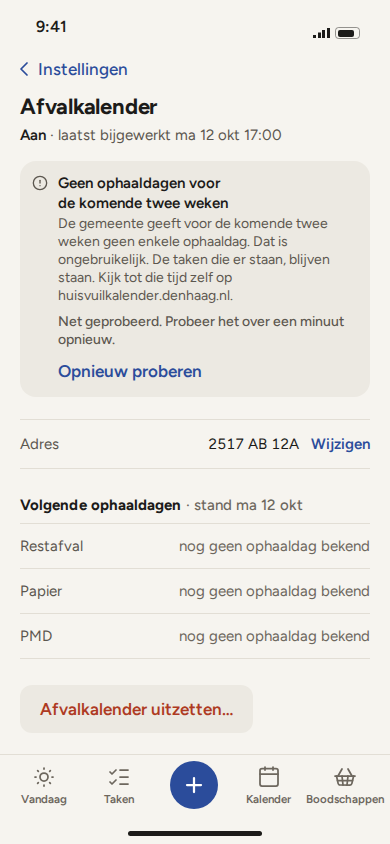
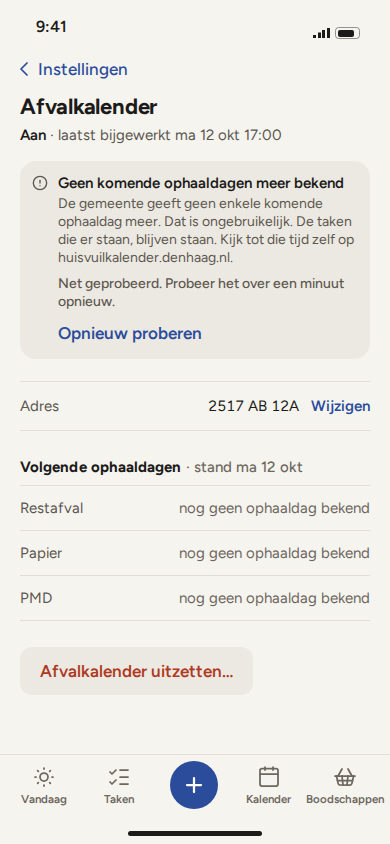
W-03: visuele ronde 3 (teksten in prototype bijgewerkt)
Claude-Session: https://claude.ai/code/session_01WXgN2KAqhzPZRNUJQnq1N3

diff --git a/docs/prototype/w03/07-storing-leeg-te-snel.html b/docs/prototype/w03/07-storing-leeg-te-snel.html
@@ -15,8 +15,8 @@
     <div class="notice" role="status">
       <i data-ic="alert" class="sm"></i>
       <div>
-        <div class="nt">Geen ophaaldagen voor de komende twee weken</div>
-        <div class="nb">De gemeente geeft voor de komende twee weken geen enkele ophaaldag. Dat is ongebruikelijk. De taken die er staan, blijven staan. Kijk tot die tijd zelf op huisvuilkalender.denhaag.nl.</div>
+        <div class="nt">Geen komende ophaaldagen meer bekend</div>
+        <div class="nb">De gemeente geeft geen enkele komende ophaaldag meer. Dat is ongebruikelijk. De taken die er staan, blijven staan. Kijk tot die tijd zelf op huisvuilkalender.denhaag.nl.</div>
         <div class="nr">Net geprobeerd. Probeer het over een minuut opnieuw.</div>
       </div>
       <span></span>

diff --git a/docs/prototype/w03/09-nog-geen-ophaaldagen.html b/docs/prototype/w03/09-nog-geen-ophaaldagen.html
@@ -13,7 +13,7 @@
   <main>
     <div class="notice nobtn" role="status">
       <i data-ic="alert" class="sm"></i>
-      <div class="solo">De gemeente heeft nog geen ophaaldagen voor de komende weken online gezet. De kalender van het nieuwe jaar komt meestal rond de jaarwisseling online. Er is niets opgeslagen. Probeer het over een paar dagen opnieuw.</div>
+      <div class="solo">De gemeente geeft voor dit adres nog geen komende ophaaldagen. De kalender van het nieuwe jaar komt meestal rond de jaarwisseling online. Er is niets opgeslagen. Probeer het over een paar dagen opnieuw.</div>
     </div>
 
     <form class="addr-grid" onsubmit="return false">

diff --git a/docs/wijzigingen/W-03/visual-designer-r3.md b/docs/wijzigingen/W-03/visual-designer-r3.md
@@ -1,0 +1,69 @@
+## Visueel ontwerp: W-03 afvalkalender — ronde 3 (tekstwijzigingen uit product-designer-r4)
+
+Ik heb twee prototypebestanden aangepast en daarvan nieuwe screenshots gemaakt. Die screenshots heb ik met Read bekeken. DESIGN_SYSTEM.md heb ik niet aangeraakt, want het is bevroren.
+
+### Controle van de prototypebestanden (alle 11 in docs/prototype/w03/)
+Ik heb gezocht op de oude en de nieuwe formuleringen: "twee weken", "komende weken", "online gezet", "'s-Gravenhage", "Den Haag", "klaargezet", "staat aan" en "Bekijken".
+- **07-storing-leeg-te-snel.html (H2):**
+  - de titel is nu T-77: "Geen komende ophaaldagen meer bekend";
+  - de uitleg is nu T-77b: "De gemeente geeft geen enkele komende ophaaldag meer. Dat is ongebruikelijk. …". Het is T-77b en niet T-77a, omdat de stand in het scherm op 12 oktober staat en oktober niet onder december/januari valt.
+- **09-nog-geen-ophaaldagen.html (F2, aanzetten):** de tekst is nu T-64, letterlijk: "De gemeente geeft voor dit adres nog geen komende ophaaldagen. De kalender van het nieuwe jaar komt meestal rond de jaarwisseling online. Er is niets opgeslagen. Probeer het over een paar dagen opnieuw."
+- **02-klopt-dit.html (T-45a):** hoeft niet te veranderen. Er staat al "Laan van Meerdervoort 12A, Den Haag", en nergens in het prototype komt "'s-Gravenhage" voor.
+- **M-04, T-64b, T-77a en T-90/T-90b:** geen van deze teksten staat in het prototype. Er was dus niets aan te passen.
+- **Rest:** 01, 03, 04, 05, 06, 08, 10 en 11 bevatten geen van de gewijzigde teksten en blijven zoals ze zijn.
+
+### Vernieuwde screenshots (390×844)
+In `/home/user/takenlijstje/docs/screenshots/prototype/`:
+- `w03-07-storing-leeg-te-snel-390x844.png`
+- `w03-09-nog-geen-ophaaldagen-390x844.png`
+
+Beide gaven 0 consolefouten, 0 paginafouten en 0 mislukte verzoeken. De donkere varianten bestonden voor 07 en 09 niet en zijn dus ook niet nodig. De overige screenshots van w03 blijven geldig, want hun teksten zijn niet veranderd.
+
+Wat ik op het beeld zie:
+- **07:** de H2-titel past nu op één regel, waardoor het vroegere losse woord "weken" op de tweede regel vanzelf verdwenen is. `text-wrap: balance` blijft staan voor andere lengtes. De balk is rustig en grijs zonder rood. T-79 staat in de balk, "Opnieuw proberen" is een tekstknop, en de drie bakken staan eronder met "nog geen ophaaldag bekend" in text-3.
+- **09:** het vlak zonder titel heeft nu vijf regels, even lang als voorheen, zonder weesregel. De velden staan gevuld eronder en "Adres zoeken" is de primaire knop onder het formulier.
+
+---
+
+# WIJZIGINGEN OP DE DS-INVOEGTEKST (visual-designer-r2.md)
+Alle andere delen van de invoegtekst uit r2 blijven ongewijzigd.
+
+## (2) §7.13.5, onderdeel "Status (toestand G, G′, G″)": nieuwe bullet direct na "Hoofdactie"
+- **Melding na aanzetten:** de bestaande melding onderin (§7.8), in twee varianten:
+  - **T-90** met de actie **Bekijken** in `toast-action`, die de Kalender (week) opent. Dit geldt als er taken zijn klaargezet (`inserted` > 0).
+  - **T-90b** zonder actie en zonder lege actieruimte. De tekst loopt dan over de volle breedte. Dit geldt als er 0 taken zijn klaargezet, omdat de eerstvolgende ophaaldag verder dan 14 dagen weg ligt. De datum staat al in G onder "Volgende ophaaldagen", dus er is geen knop nodig.
+  - Beide varianten krijgen het ✓-icoon, `role="status"`, ongeveer 5 s in beeld, en geen afwijkende kleur.
+
+## (5) Oude UI, punt 2 "Instellingen": nieuwe bullet na "Uitzetten"
+- **Melding na aanzetten:** gebruik de bestaande `toast` (sonner). Voor T-90 komt er `action: { label: "Bekijken" }`. Voor T-90b komt er **geen** `action`. Voeg geen nieuwe toastvariant toe.
+
+## (4) §12 Prototype: gewijzigde regels (vervangen de regels met dezelfde ID)
+| W03-02 | `w03/02-klopt-dit.html` | `w03-02-klopt-dit-390x844.png`, `…-donker-…` | Klopt dit? (C) | Adres als onderwerp zonder kaart; één hoofdactie. Ronde 2: T-46. Ronde 3: T-45a met plaats "Den Haag" gecontroleerd (stond al goed) |
+| W03-07 | `w03/07-storing-leeg-te-snel.html` | `w03-07-storing-leeg-te-snel-390x844.png` | H2 (oktober, dus T-77/T-77b) met T-79 ("te snel") en drie bakken met T-45b | T-79 in de balk, geen melding onderin. Ronde 3: T-77/T-77b nieuw; de titel past nu op één regel, `text-wrap: balance` blijft voor langere varianten |
+| W03-09 | `w03/09-nog-geen-ophaaldagen.html` | `w03-09-nog-geen-ophaaldagen-390x844.png` | F2 (2 januari, aanzetten: T-64) | Balk zonder titel, hoofdactie onder het formulier. Ronde 3: T-64 nieuw, vijf regels zonder weesregel |
+
+De regels W03-01, 03, 04, 05, 06, 08, 10 en 11 blijven zoals in r2.
+
+**Bewust niet als prototype gebouwd:** T-90 en T-90b. Het is de bestaande melding onderin (§7.8) met of zonder actie, en de beeldcontrole daarvan valt bij CP-W03 (TD §18.16 U3).
+
+---
+
+### Zelfcontrole op anti-patronen
+Er is niets nieuw bij gekomen:
+- geen rood bij een storing;
+- geen nieuwe vlakken, badges of iconen;
+- T-90b voegt geen component toe, alleen een melding zonder actie.
+
+Het herhalende "nog geen ophaaldag bekend" in 07 blijft bewust staan, zoals al in r2 genoemd.
+
+### Vragen voor Jurgen
+Geen.
+
+### Oordeel
+**GEREED VOOR ARCHITECTUUR EN PLANREVIEW.** Het prototype toont alleen de teksten uit product-designer-r4. De teksten die daar vervallen zijn, komen er niet meer in voor. Ik heb de twee vernieuwde screenshots op het beeld bekeken en ze voldoen.
+
+Bestanden:
+- /home/user/takenlijstje/docs/prototype/w03/07-storing-leeg-te-snel.html
+- /home/user/takenlijstje/docs/prototype/w03/09-nog-geen-ophaaldagen.html
+- /home/user/takenlijstje/docs/screenshots/prototype/w03-07-storing-leeg-te-snel-390x844.png
+- /home/user/takenlijstje/docs/screenshots/prototype/w03-09-nog-geen-ophaaldagen-390x844.png
